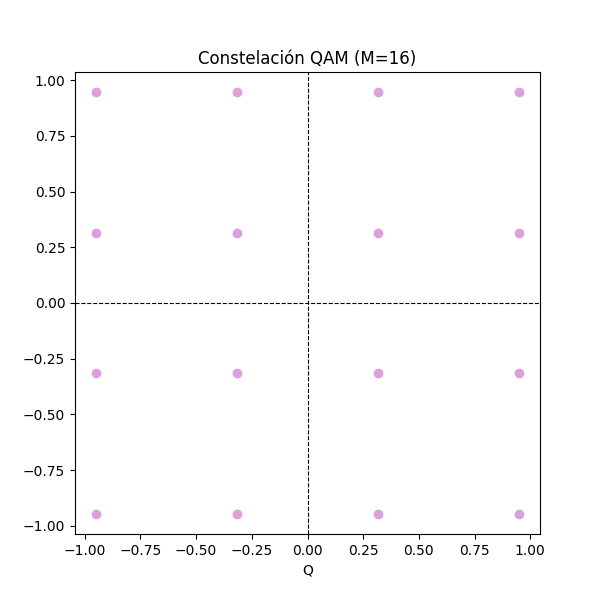
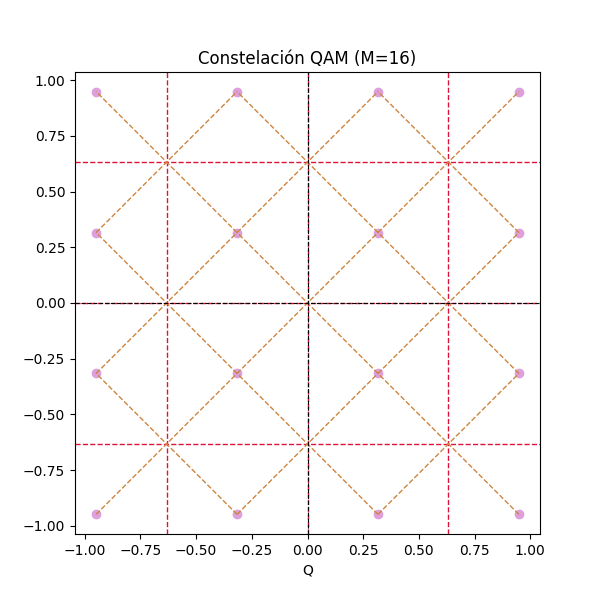
agrega las zonas de decision para 16-qam

diff --git a/punto1.py b/punto1.py
@@ -56,10 +56,34 @@ def plot_qam(d, M):
 
     # Normalizar la constelación
     symbols = normalizar_constelacion(symbols)
-
+    size = int(np.sqrt(M))  # Número de filas y columnas en la cuadrícula
+    d_norm = symbols[0]-symbols[1]
     # Graficar
     plt.figure(figsize=(6, 6))
-    plt.scatter(symbols.real, symbols.imag, c='plum', label='Símbolos')
+    for i in range(1, size):
+        plt.axhline(i * d_norm - (size / 2) * d_norm, color='crimson', linestyle='--', lw=1)
+        plt.axvline(i * d_norm - (size / 2) * d_norm, color='crimson', linestyle='--', lw=1)
+
+    for i in range(size - 1):
+        for j in range(size - 1):
+            # Coordenadas de las esquinas opuestas de la celda (i, j)
+            x1 = symbols[i + j * size].real
+            y1 = symbols[i + j * size].imag
+            x2 = symbols[(i + 1) + (j + 1) * size].real
+            y2 = symbols[(i + 1) + (j + 1) * size].imag
+
+            # Dibujar la primera diagonal (de la esquina inferior izquierda a la superior derecha)
+            plt.plot([x1, x2], [y1, y2], '--', lw=1,color='peru')
+
+            # Segunda diagonal (de la esquina inferior derecha a la superior izquierda)
+            x1 = symbols[(i + 1) + j * size].real
+            y1 = symbols[(i + 1) + j * size].imag
+            x2 = symbols[i + (j + 1) * size].real
+            y2 = symbols[i + (j + 1) * size].imag
+
+            plt.plot([x1, x2], [y1, y2], '--', lw=1,color='peru')
+
+    plt.scatter(symbols.real, symbols.imag, c='plum')
     plt.axhline(0, color='k', linewidth=0.8, linestyle='--')
     plt.axvline(0, color='k', linewidth=0.8, linestyle='--')
     plt.title(f'Constelación QAM (M={M})')
@@ -130,7 +154,7 @@ def plot_2fsk(d):
 M =16  # Cantidad de símbolos
 d = 2  # Distancia mínima entre símbolos
 
-plot_ask(d, M)
+# plot_ask(d, M)
 plot_qam(d, M)
-plot_psk(d, M)
-plot_2fsk(d)
+# plot_psk(d, M)
+# plot_2fsk(d)
